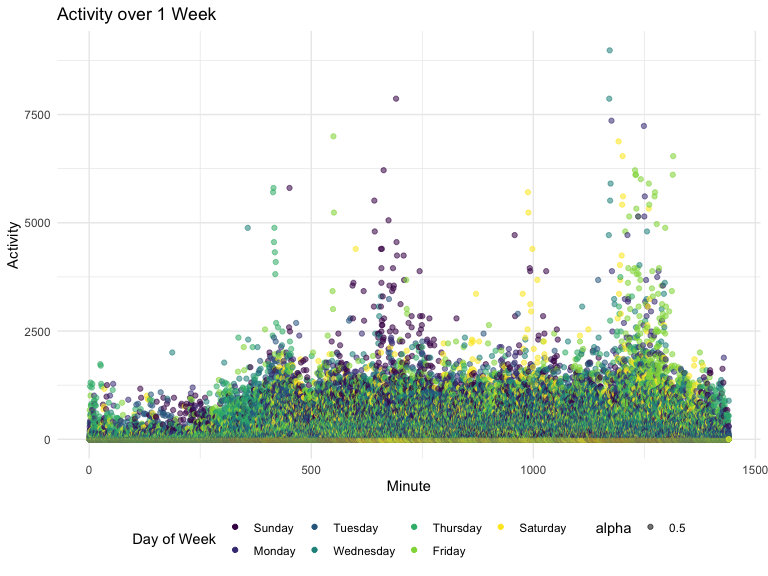
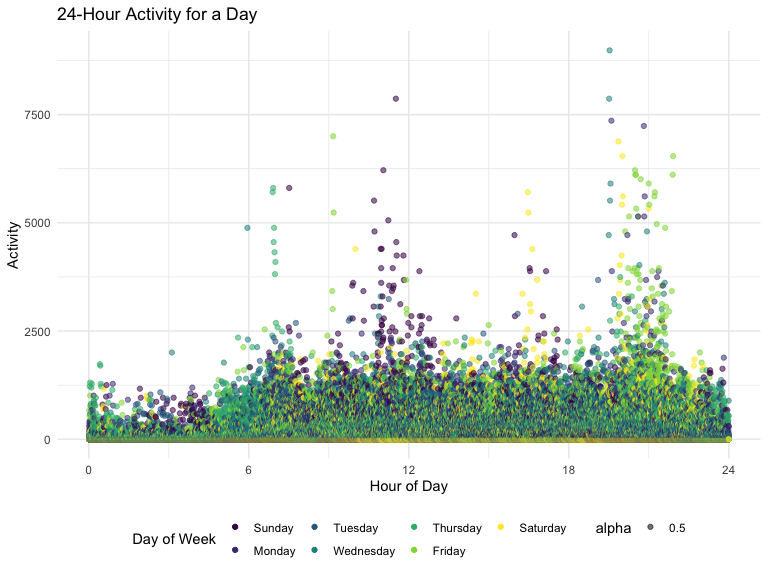
added label to problem 2 graph

diff --git a/p8105_hw3_pc2979.md b/p8105_hw3_pc2979.md
@@ -232,21 +232,27 @@ accel %>%
 |    5 | 138421 | 389080.00 | 367824.0 |    445366 | 549658.0 | 620860.0 |     1440 |
 
 We see that on average, highest activity occurs during the weekday.
-Without additional analysis, any trends present within the data is not
-obvious.
+However, without additional analysis, any trends present within the data
+is not obvious.
 
 ``` r
 accel %>% 
-  ggplot(aes(x = hour, y = activity, color = day_of_week)) + 
-  geom_point(aes(alpha = 0.05)) + 
+  group_by(hour, week, day_of_week) %>%
+  summarize(total_activity = sum(activity)) %>%
+  ggplot(aes(x = hour, y = total_activity, color = day_of_week)) + 
+  geom_point(aes(alpha = 0.5)) + 
   scale_x_continuous(
     breaks = c(0, 6, 12, 18, 24)
   ) +
-  labs(title = "Activity over 1 Week",
+  labs(title = "24-Hour Activity for a Day",
        x = "Hour of Day",
        y = "Activity",
-       color = "Day of Week")
+       color = "Day of Week") +
+  theme(legend.position = "bottom")
 ```
+
+    ## `summarise()` has grouped output by 'hour', 'week'. You can override using the
+    ## `.groups` argument.
 
 <img src="p8105_hw3_pc2979_files/figure-gfm/unnamed-chunk-10-1.png" width="90%" />
 Based on the graph, we see that the majority of activity counts per
@@ -365,16 +371,12 @@ ny_noaa %>%
   filter(month %in% c(1,7)) %>%
   group_by(id, year, month) %>%
   summarize(mean_tmax = mean(tmax, na.rm = TRUE)) %>%
-  mutate(month = month.name[month]) %>%
-  ggplot(aes(x = year, y = mean_tmax)) +
-  geom_point(aes(alpha = 0.05)) +
-  facet_grid(~ month) +
-  labs(title = "Average New York Max  Temperature in January and July (1980-2010)",
+  ggplot(aes(x = year, y = mean_tmax), group = id) +
+  geom_line(aes(alpha = 0.5)) +
+  facet_grid(~ month, labeller = labeller(month = c("1" = "January", "7" = "July"))) +
+  labs(title = "Average New York Max Temperature in January and July (1980-2010)",
        x = "Year",
-       y = "Average Max Temperature") +
-  scale_y_continuous(
-    limits = c()
-  )
+       y = "Average Max Temperature (C)") 
 ```
 
     ## `summarise()` has grouped output by 'id', 'year'. You can override using the
@@ -392,7 +394,7 @@ than 100 separately by year.
 tmax_tmin <- 
   ny_noaa %>%
   ggplot(aes(x = tmax, y = tmin)) +
-  geom_point()
+  geom_hex()
 ```
 
 WATTTTT
